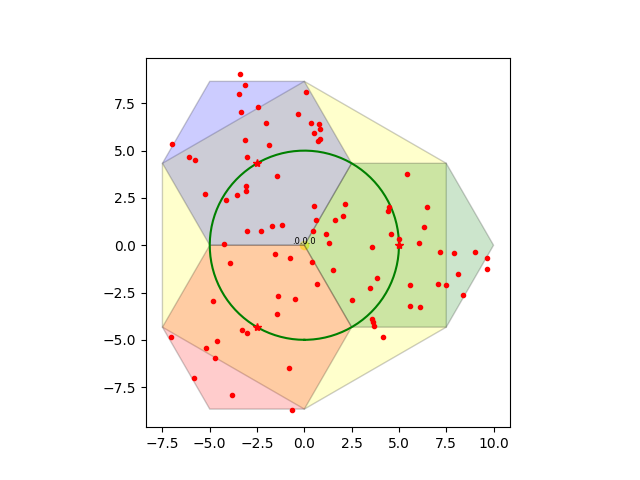
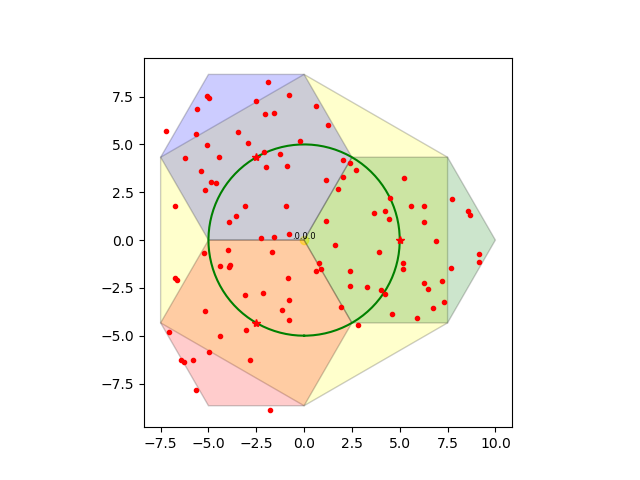
se crea funsion trisector

diff --git a/pruebas/gridlayout/nhexagrid.py b/pruebas/gridlayout/nhexagrid.py
@@ -210,7 +210,31 @@ def crear_coordenadas_grilla_horizontal(coord, coef, nivel,radio):
 	return hcoord, vcoord
 	 
  	
+def crear_trisec(radio,agx,agy,ax):
+#funcion para plotear las celdas trisectorizadas parametros : radio celda trisector, cordenada X, coordenada Y, figure AX
+	colorpos=["Green","Blue","Red"]
+	for x,y,c in zip(agx, agy, colorpos):
+		
+		color = c.lower()  # matplotlib understands lower case words for colours
+		'''this radius fix the separation between the polygons.phikubo'''
+		hex = RegularPolygon((0.5*radio*x, 0.5*radio*y), numVertices=6, radius=radio*0.5*1, #0.67, 0.95
+                         orientation=np.radians(30), #con 60 grados funciona perfecto, pero las coordenadas cambian. Antes 30
+                         facecolor=color, alpha=0.2, edgecolor='k')
+                         #cambiar radius=2. / 3. , cuando se usa coord_0
+		ax.add_patch(hex)
+		intensity=0.4
+
+		#si quiero el mismo numero de puntos en todas las celdas debo usar un funcion extra del script ppp que genere primero ese numero ppp segun la intensidad, y luego con el numero, se calcula el area de ploteo.
+		#función de coordenadas ppp
+		xx,yy=ppp.maint(0.5*radio,0.5*radio*x, 0.5*radio*y, intensity)
+
+		#puntos x,y de ues, ya esta afectados por el 0.5*radio.
+		plt.plot(xx,yy, "r.")
+		#puntos rojos, centro de las celdas
+		plt.plot(0.5*radio*x,0.5*radio*y, 'r*')
+		plt.savefig("falta_pulir.png")
 	
+	pass
 			
 def plotear_grid(coef,radio, coord, nivel, azi):
 	'''Plotea graficas de celdas hexagonales. Parametros: radio celda a celda, radio, coordenadas y el nivel. Nivel=n*n, n=celdas.'''
@@ -271,34 +295,11 @@ def plotear_grid(coef,radio, coord, nivel, azi):
 	plt.plot(cx,cy, 'g')
 
 	#calculo coordenadas de angulo de azimutto
-	'''Aqui edito tosse: CAMBIO DE COORDENADAS, DE HEXAGONALES 3D A CORDENADAS ANGULARES. Siguiente paso, aislar el código que hace la tri-sectorizacion y  ajustar para que el angulo coincida y sea proporcional'''
-	colorpos=["Green","Blue","Red"]
-	for x,y,c in zip(angx, angy, colorpos):
-		
-		color = c.lower()  # matplotlib understands lower case words for colours
-		'''this radius fix the separation between the polygons.phikubo'''
-		hex = RegularPolygon((0.5*radio*x, 0.5*radio*y), numVertices=6, radius=radio*0.5*1, #0.67, 0.95
-                         orientation=np.radians(30), #con 60 grados funciona perfecto, pero las coordenadas cambian. Antes 30
-                         facecolor=color, alpha=0.2, edgecolor='k')
-                         #cambiar radius=2. / 3. , cuando se usa coord_0
-		ax.add_patch(hex)
-		intensity=0.4
-
-		#si quiero el mismo numero de puntos en todas las celdas debo usar un funcion extra del script ppp que genere primero ese numero ppp segun la intensidad, y luego con el numero, se calcula el area de ploteo.
-		#función de coordenadas ppp
-		xx,yy=ppp.maint(0.5*radio,0.5*radio*x, 0.5*radio*y, intensity)
-
-		#puntos x,y de ues, ya esta afectados por el 0.5*radio.
-		plt.plot(xx,yy, "r.")
-		#puntos rojos, centro de las celdas
-		plt.plot(0.5*radio*x,0.5*radio*y, 'r*')
-		
-		
+	'''Aqui edito tosse: CAMBIO DE COORDENADAS, DE HEXAGONALES 3D A CORDENADAS ANGULARES. Siguiente paso, aislar el código que hace la tri-sectorizacion y  ajustar para que el angulo coincida y sea proporcional'''	
+	crear_trisec(radio,angx,angy,ax)		
 
 
 
-
-	plt.savefig("falta_pulir.png")
 	plt.grid(True)
 	plt.show()
 
